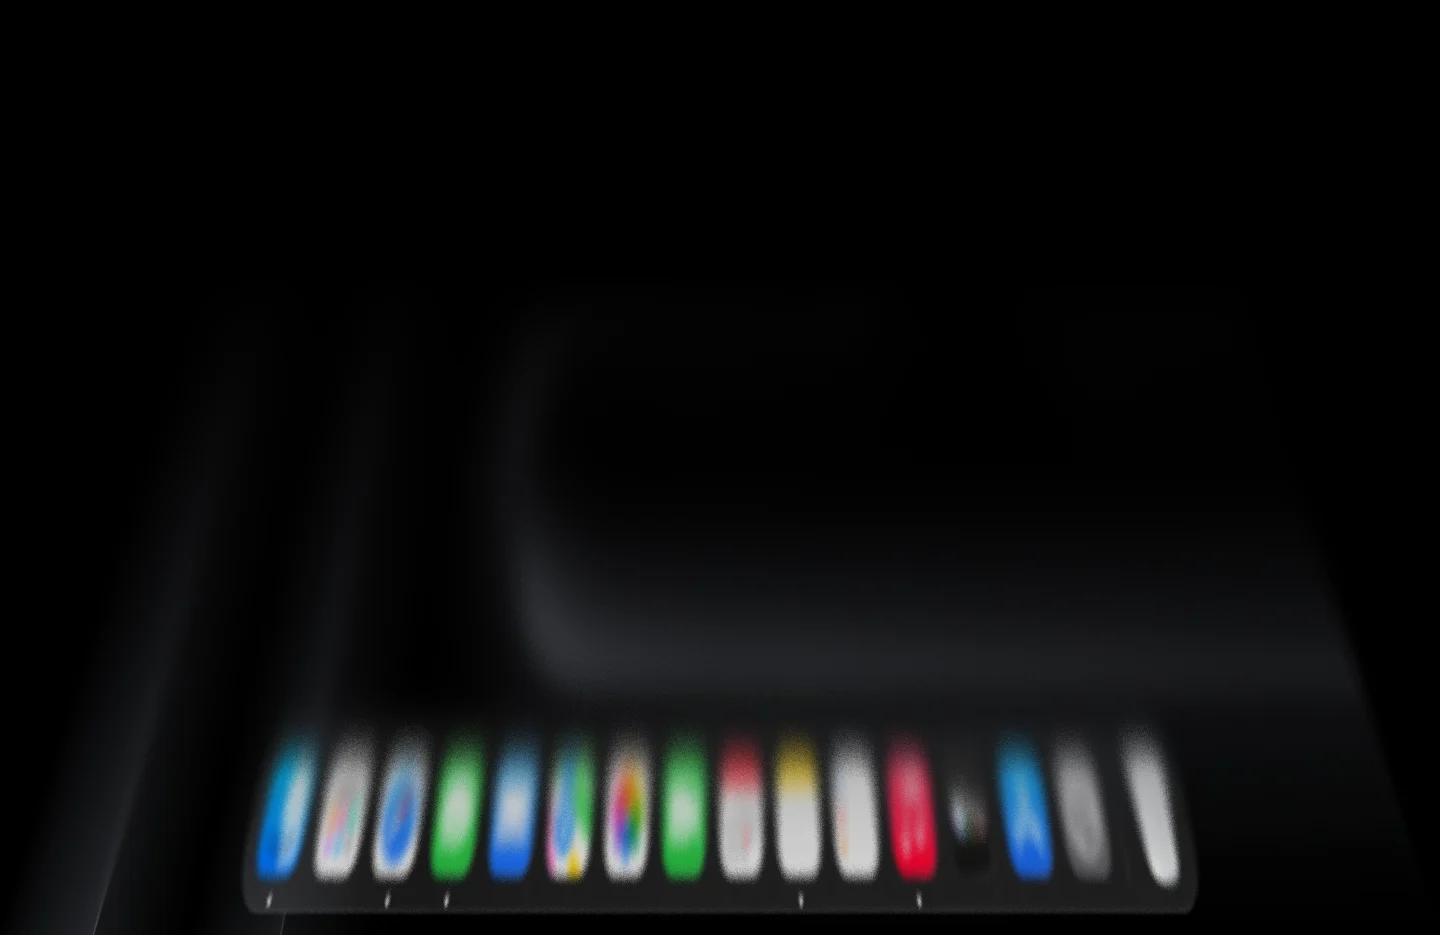
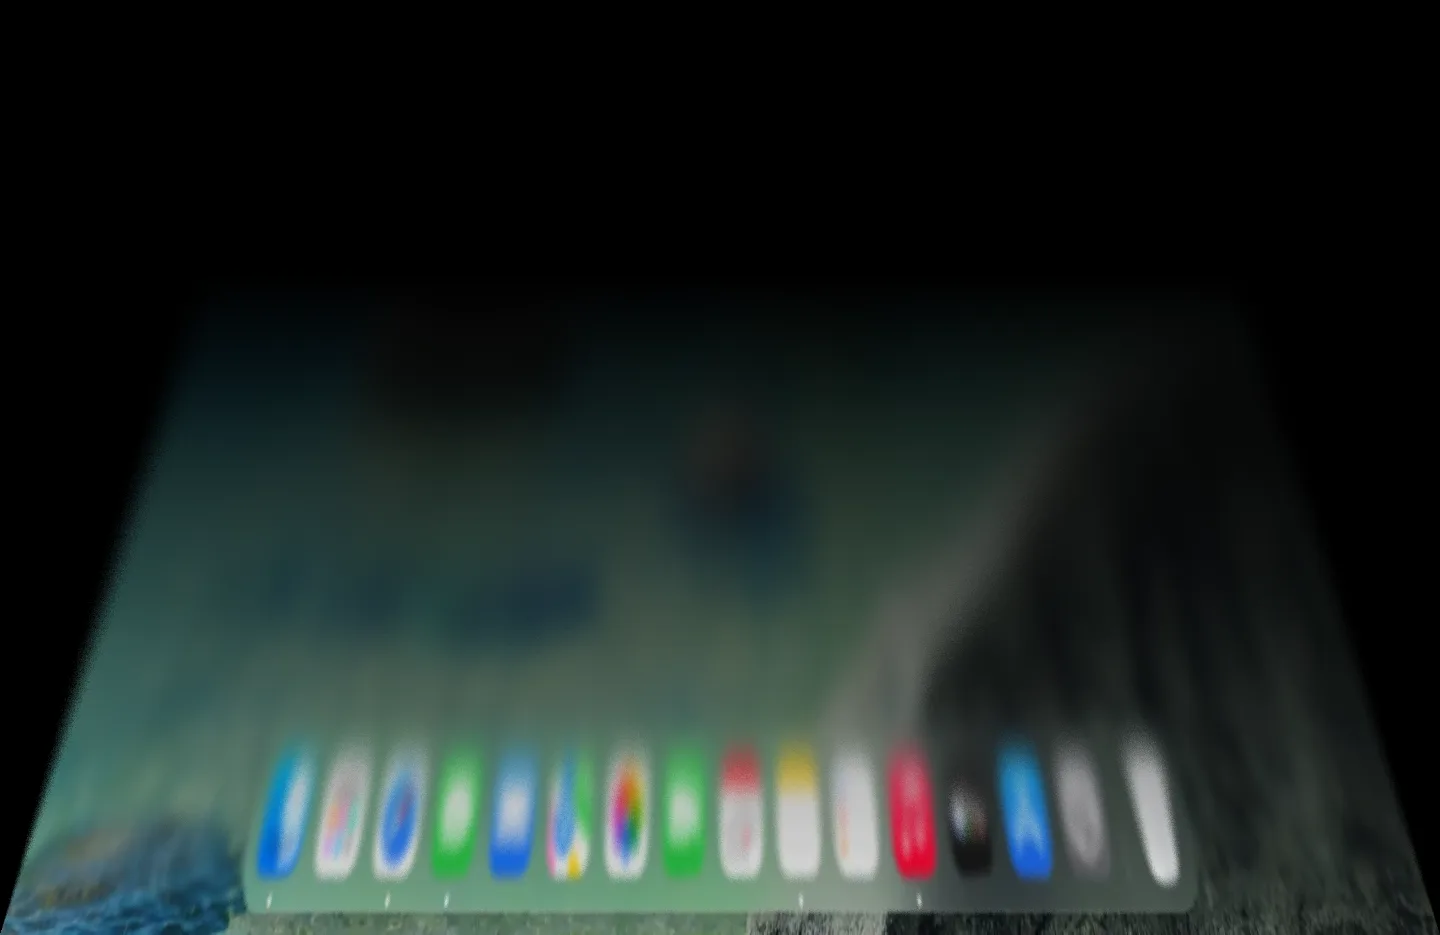
Site: show the glass on macOS 26's Tahoe wallpaper (#3)

diff --git a/site/js/looks.js b/site/js/looks.js
@@ -1,6 +1,7 @@
 // The Looks section: pick a look and drag the lid, and the glass is drawn live on the real desktop with Pli's
-// optical model. Without WebGL2, with reduced motion or a lost context, the pictures exported for each look
-// stay (tools/export-images.mjs), and the chips still switch them.
+// optical model, on either real wallpaper (macOS 26's Tahoe, or the MacBook Pro's Pro Black). Without WebGL2, with
+// reduced motion or a lost context, the pictures exported for each look and wallpaper stay (tools/export-images.mjs),
+// and the chips still switch them.
 import { GlassRenderer } from './renderer.js';
 import { PAGE_LID_REST, foldProgress, presetById } from './optics.js';
 
@@ -13,8 +14,12 @@ export function startLooks(doc = document, win = window) {
   const output = root.querySelector('[data-lid-output]');
   const note = root.querySelector('[data-look-note]');
   const chips = [...root.querySelectorAll('[data-look]')];
+  const walls = [...root.querySelectorAll('[data-wall]')];
+  const DESKTOPS = { tahoe: 'assets/desktop-tahoe.webp', black: 'assets/desktop.webp' };
+  const sources = {};
 
   let look = presetById('duo');
+  let wall = 'tahoe';
   let angle = Number(input.value);
   let renderer = null;
   let frame = 0;
@@ -42,10 +47,44 @@ export function startLooks(doc = document, win = window) {
     for (const chip of chips) chip.setAttribute('aria-pressed', String(chip.dataset.look === id));
     note.textContent = `${next.name}: ${next.intent.charAt(0).toLowerCase()}${next.intent.slice(1)}`;
     if (renderer) request();
-    else still.src = `assets/presets/${id}.webp`;
+    else showStill();
+  }
+
+  function showStill() {
+    still.src = `assets/presets/${wall === 'black' ? 'black/' : ''}${look.id}.webp`;
+  }
+
+  async function picture(name) {
+    if (!sources[name]) {
+      const image = new win.Image();
+      image.src = DESKTOPS[name];
+      await image.decode();
+      sources[name] = image;
+    }
+    return sources[name];
+  }
+
+  async function chooseWall(name) {
+    if (!DESKTOPS[name]) return;
+    wall = name;
+    for (const button of walls) button.setAttribute('aria-pressed', String(button.dataset.wall === name));
+    if (!renderer) {
+      showStill();
+      return;
+    }
+    try {
+      const image = await picture(name);
+      if (wall !== name || !renderer) return;   // another choice came first
+      renderer.setSource(image);
+      request();
+    } catch {
+      goStill();
+      showStill();
+    }
   }
 
   for (const chip of chips) chip.addEventListener('click', () => choose(chip.dataset.look));
+  for (const button of walls) button.addEventListener('click', () => chooseWall(button.dataset.wall));
   input.addEventListener('input', () => {
     angle = Number(input.value);
     output.textContent = `${angle}°`;
@@ -54,10 +93,8 @@ export function startLooks(doc = document, win = window) {
 
   async function begin() {
     if (doc.documentElement.dataset.motion !== 'full') return;
-    const source = new win.Image();
-    source.src = 'assets/desktop.webp';
     try {
-      await source.decode();
+      const source = await picture(wall);
       renderer = new GlassRenderer(canvas);
       renderer.setSource(source);
     } catch {
@@ -83,7 +120,7 @@ export function startLooks(doc = document, win = window) {
   }, { rootMargin: '400px 0px' });
   near.observe(root);
 
-  return { choose, get live() { return renderer !== null; } };
+  return { choose, chooseWall, get live() { return renderer !== null; } };
 }
 
 /** Sections ease in once, as they come into view. */

diff --git a/site/index.html b/site/index.html
@@ -102,17 +102,17 @@
         </div>
         <ol class="steps">
           <li class="step reveal">
-            <figure><img src="assets/how/duo-90.webp" width="720" height="468" alt="The desktop, still sharp, with the lid at 90 degrees." loading="lazy"><span class="angle">90°</span></figure>
+            <figure><img src="assets/how/duo-75.webp" width="720" height="468" alt="The desktop through a pane of glass that starts to lean and soften, with the lid at 75 degrees." loading="lazy"><span class="angle">75°</span></figure>
             <h3>Start closing</h3>
-            <p>Past 90°, a clear pane of glass appears over your desktop, still sharp.</p>
+            <p>Past 90°, a pane of glass appears over your desktop and starts to lean and soften.</p>
           </li>
           <li class="step reveal">
-            <figure><img src="assets/how/duo-55.webp" width="720" height="468" alt="The desktop half frosted, the glass leaning back, with the lid at 55 degrees." loading="lazy"><span class="angle">55°</span></figure>
+            <figure><img src="assets/how/duo-50.webp" width="720" height="468" alt="The desktop half frosted, the glass leaning back, with the lid at 50 degrees." loading="lazy"><span class="angle">50°</span></figure>
             <h3>The glass leans</h3>
             <p>It tilts on the hinge while the picture stays still, and frost rises from the bottom.</p>
           </li>
           <li class="step reveal">
-            <figure><img src="assets/how/duo-30.webp" width="720" height="468" alt="The desktop fully frosted and dark, with the lid at 30 degrees." loading="lazy"><span class="angle">30°</span></figure>
+            <figure><img src="assets/how/duo-25.webp" width="720" height="468" alt="The desktop fully frosted and darkening, with the lid at 25 degrees." loading="lazy"><span class="angle">25°</span></figure>
             <h3>Fully frosted</h3>
             <p>Near the end, the glass darkens to black. Open the lid and it all unfolds, the same way back.</p>
           </li>
@@ -144,7 +144,13 @@
             </div>
             <label class="lid">Lid <input type="range" min="0" max="110" step="1" value="60" data-lid-input aria-describedby="lid-help"><output data-lid-output>60°</output></label>
           </div>
-          <p class="look-note" id="lid-help" data-look-note aria-live="polite">Duo: faithful to the iPhone Duo.</p>
+          <div class="looks-foot">
+            <p class="look-note" id="lid-help" data-look-note aria-live="polite">Duo: faithful to the iPhone Duo.</p>
+            <div class="walls" role="group" aria-label="Wallpaper">
+              <button class="wall" type="button" data-wall="tahoe" aria-pressed="true">Tahoe</button>
+              <button class="wall" type="button" data-wall="black" aria-pressed="false">Pro Black</button>
+            </div>
+          </div>
         </div>
       </div>
     </section>

diff --git a/site/css/site.css b/site/css/site.css
@@ -324,6 +324,10 @@ code, kbd {
 .facts li { display: flex; align-items: center; gap: 7px; }
 .facts li::before { content: ""; width: 5px; height: 5px; border-radius: 50%; background: var(--text-3); }
 .facts li:first-child::before { display: none; }
+@media (max-width: 560px) {
+  .facts { display: grid; grid-template-columns: repeat(2, auto); justify-content: center; gap: 6px 20px; }
+  .facts li::before { display: none; }
+}
 
 /* ---------- How it works ---------- */
 
@@ -393,6 +397,10 @@ code, kbd {
 }
 
 .chips { display: flex; flex-wrap: wrap; gap: 8px; }
+.walls { display: inline-flex; padding: 3px; border-radius: 980px; background: rgb(255 255 255 / 0.06); box-shadow: inset 0 0 0 1px var(--edge); }
+.wall { padding: 6px 14px; border: 0; border-radius: 980px; background: none; color: var(--text-2); font: inherit; font-size: 14px; cursor: pointer; }
+.wall:hover { color: var(--text); }
+.wall[aria-pressed='true'] { background: rgb(255 255 255 / 0.16); color: var(--text); font-weight: 500; }
 .chip {
   padding: 8px 16px;
   border: 0;
@@ -420,10 +428,11 @@ code, kbd {
 .lid input { flex: 1; accent-color: var(--text); }
 .looks[data-live='off'] .lid { display: none; }
 
-.look-note { margin-top: 18px; color: var(--text-3); font-size: 15px; min-height: 1.5em; }
+.looks-foot { display: flex; flex-wrap: wrap; align-items: center; justify-content: space-between; gap: 12px 24px; margin-top: 18px; }
+.look-note { color: var(--text-3); font-size: 15px; min-height: 1.5em; }
 
 @media (max-width: 834px) {
-  .looks-controls { grid-template-columns: 1fr; }
+  .looks-controls { grid-template-columns: minmax(0, 1fr); }
   .lid { min-width: 0; }
 }
 
@@ -474,7 +483,7 @@ code, kbd {
   margin-top: 64px;
 }
 .stat { padding: 28px 24px; border-radius: 20px; background: var(--card); box-shadow: 0 0 0 1px var(--edge); }
-.stat .num { font-size: clamp(40px, 4.4vw, 56px); line-height: 1; font-weight: 600; letter-spacing: -0.02em; font-variant-numeric: tabular-nums; }
+.stat .num { margin-top: 0; color: var(--text); font-size: clamp(40px, 4.4vw, 56px); line-height: 1; font-weight: 600; letter-spacing: -0.02em; font-variant-numeric: tabular-nums; }
 .stat .num small { font-size: 0.45em; font-weight: 600; letter-spacing: 0; color: var(--text-2); margin-left: 3px; }
 .stat h3 { margin-top: 14px; font-size: 17px; font-weight: 600; }
 .stat p { margin-top: 6px; color: var(--text-2); font-size: 15px; line-height: 1.47; }

diff --git a/site/tools/export.js b/site/tools/export.js
@@ -1,21 +1,26 @@
-// Browser side of tools/export-images.mjs: renders glass frames of the real desktop (assets/desktop.webp,
-// a picture of a real macOS desktop kept outside the repository) with the site's renderer.
+// Browser side of tools/export-images.mjs: renders glass frames of the real desktops (assets/desktop.webp with the Pro
+// Black wallpaper, assets/desktop-tahoe.webp with macOS 26's Tahoe wallpaper; pictures of a real macOS desktop kept
+// outside the repository) with the site's renderer.
 import { GlassRenderer } from '../js/renderer.js';
 import { DISPLAY_RATIO, PAGE_LID_REST, foldProgress, presetById } from '../js/optics.js';
 
-const source = new Image();
-source.src = '../assets/desktop.webp';
-await source.decode();
+async function load(path) {
+  const image = new Image();
+  image.src = path;
+  await image.decode();
+  return image;
+}
+const sources = { black: await load('../assets/desktop.webp'), tahoe: await load('../assets/desktop-tahoe.webp') };
 
 window.__export = {
   /** A preset's glass at a lid `angle` (the page's lid rests at 110°), as a WebP data URL. */
-  frame(presetId, angle, width, quality) {
+  frame(presetId, angle, width, quality, wall = 'tahoe') {
     const preset = presetById(presetId);
     const canvas = document.createElement('canvas');
     canvas.width = width;
     canvas.height = Math.round(width / DISPLAY_RATIO);
     const renderer = new GlassRenderer(canvas);
-    renderer.setSource(source);
+    renderer.setSource(sources[wall]);
     renderer.render({ progress: foldProgress(preset.motion, angle, PAGE_LID_REST), glass: preset.glass });
     const url = canvas.toDataURL('image/webp', quality);
     renderer.dispose();
